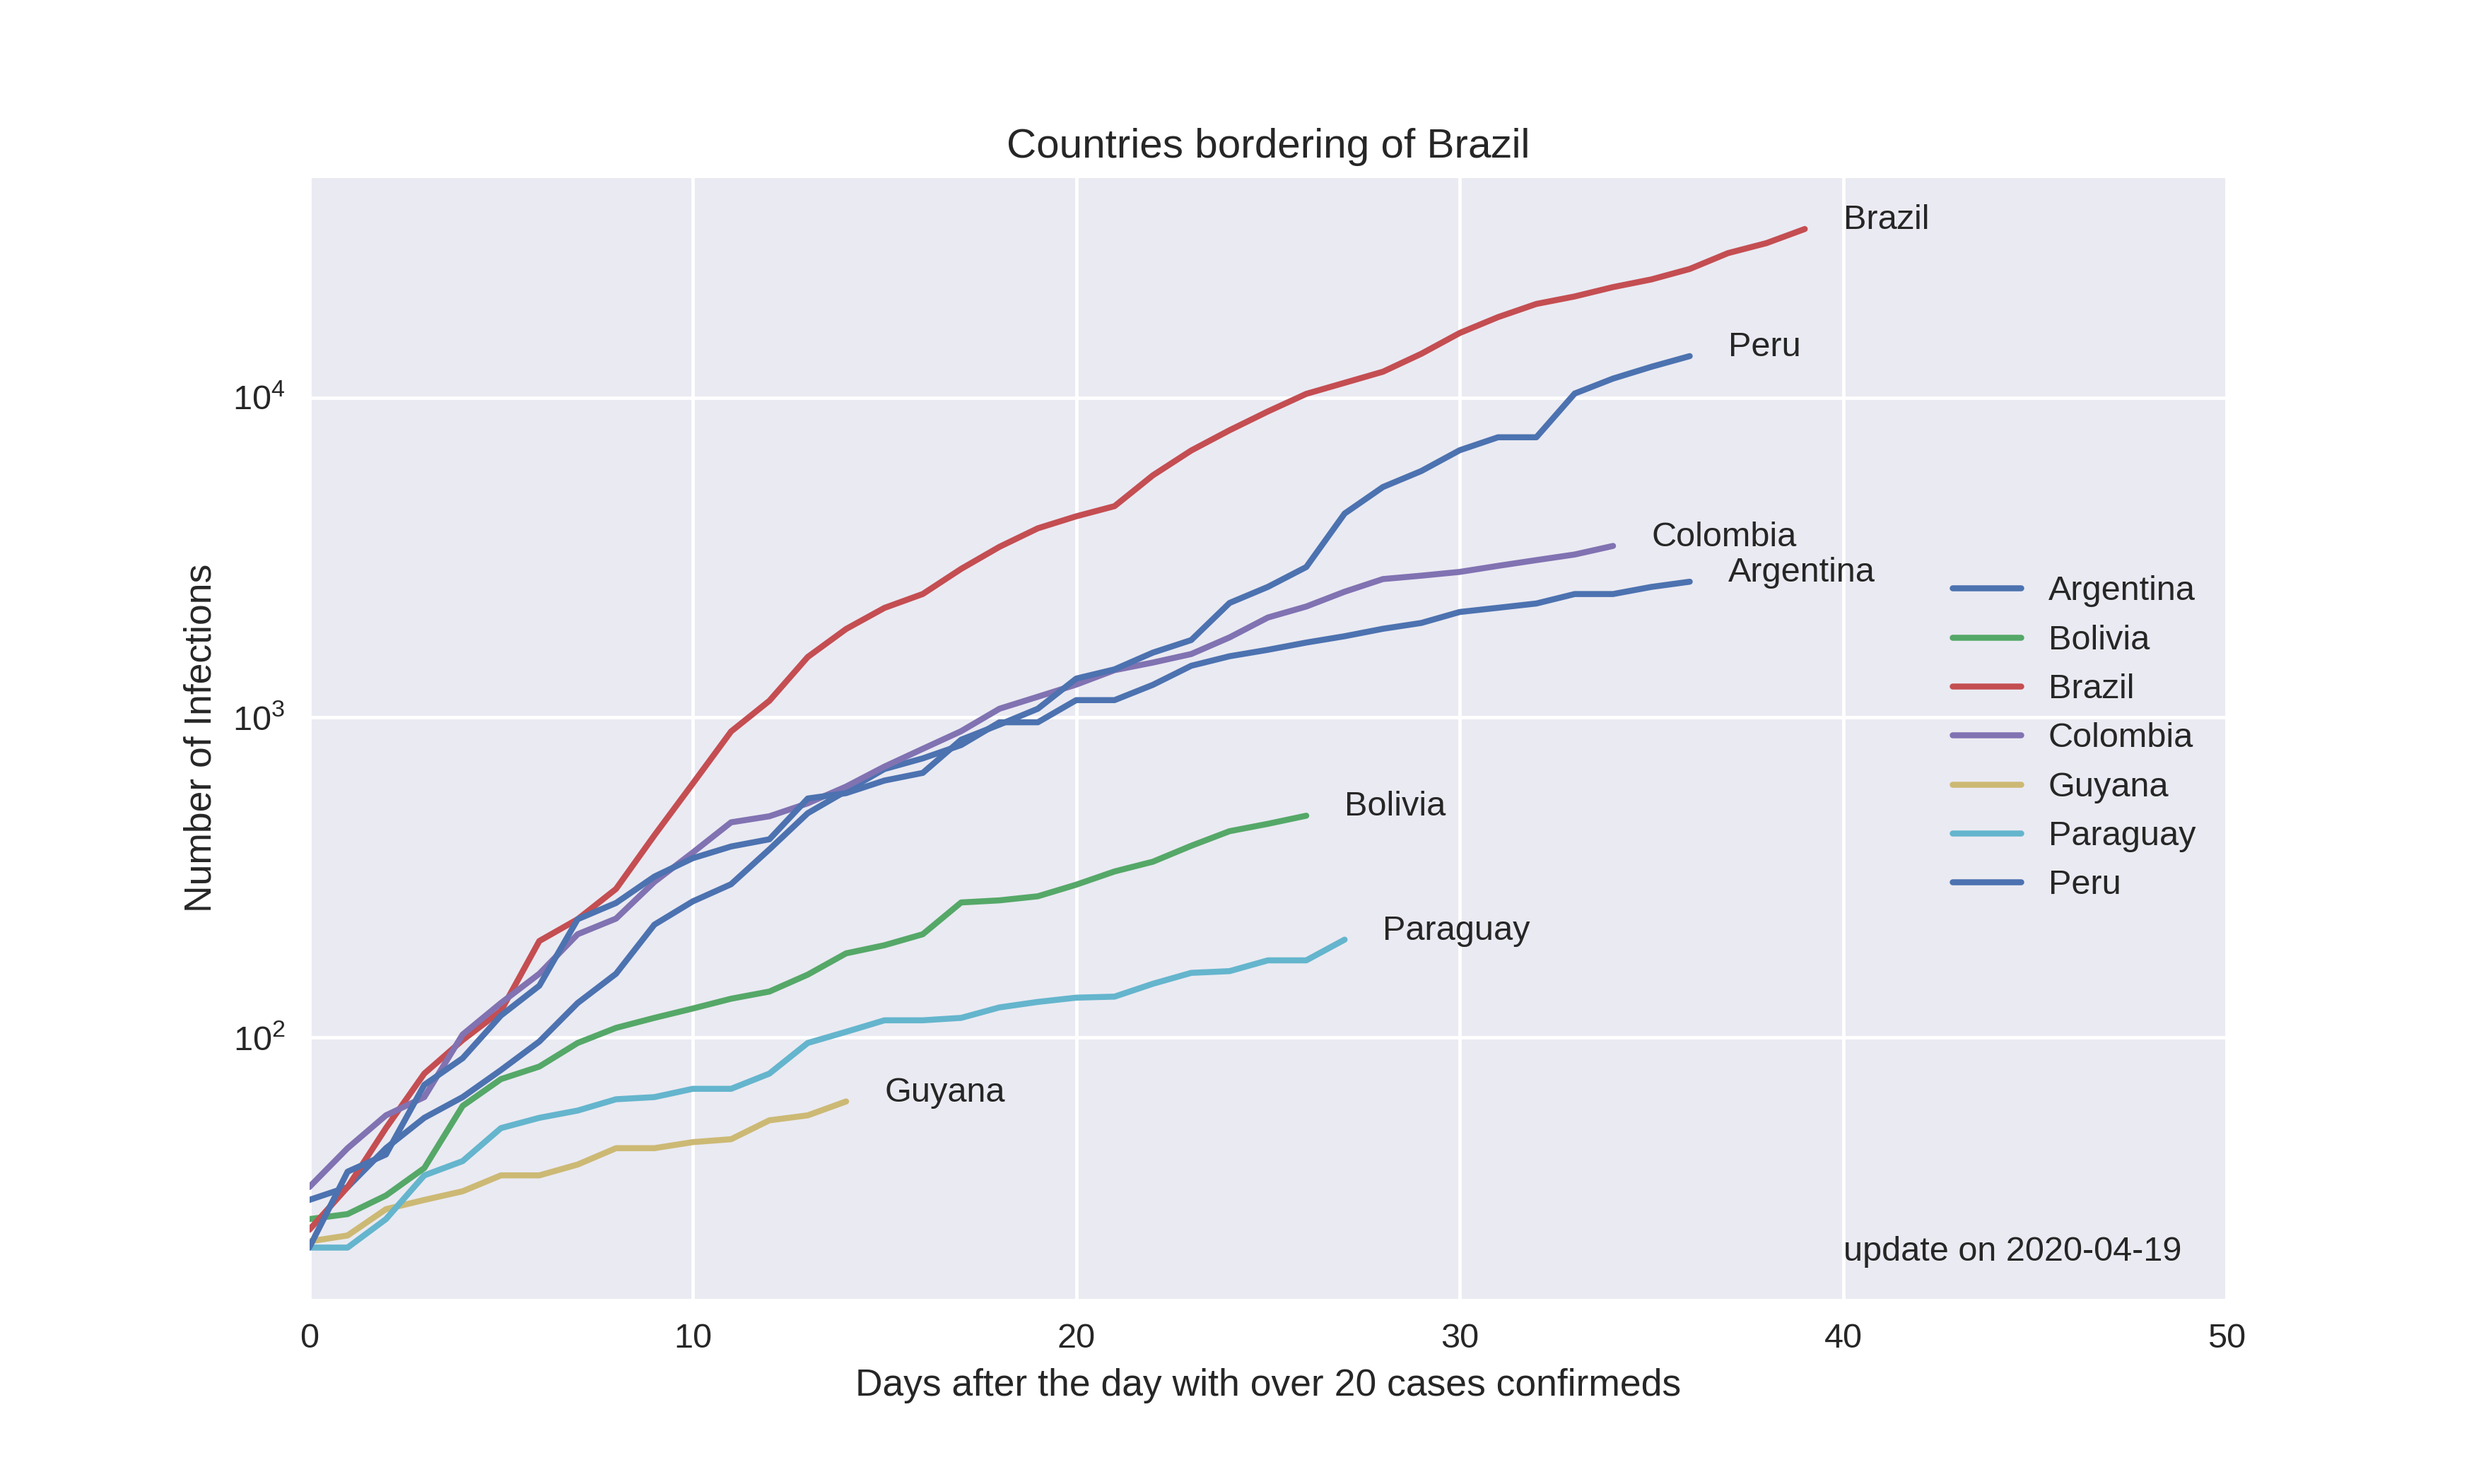
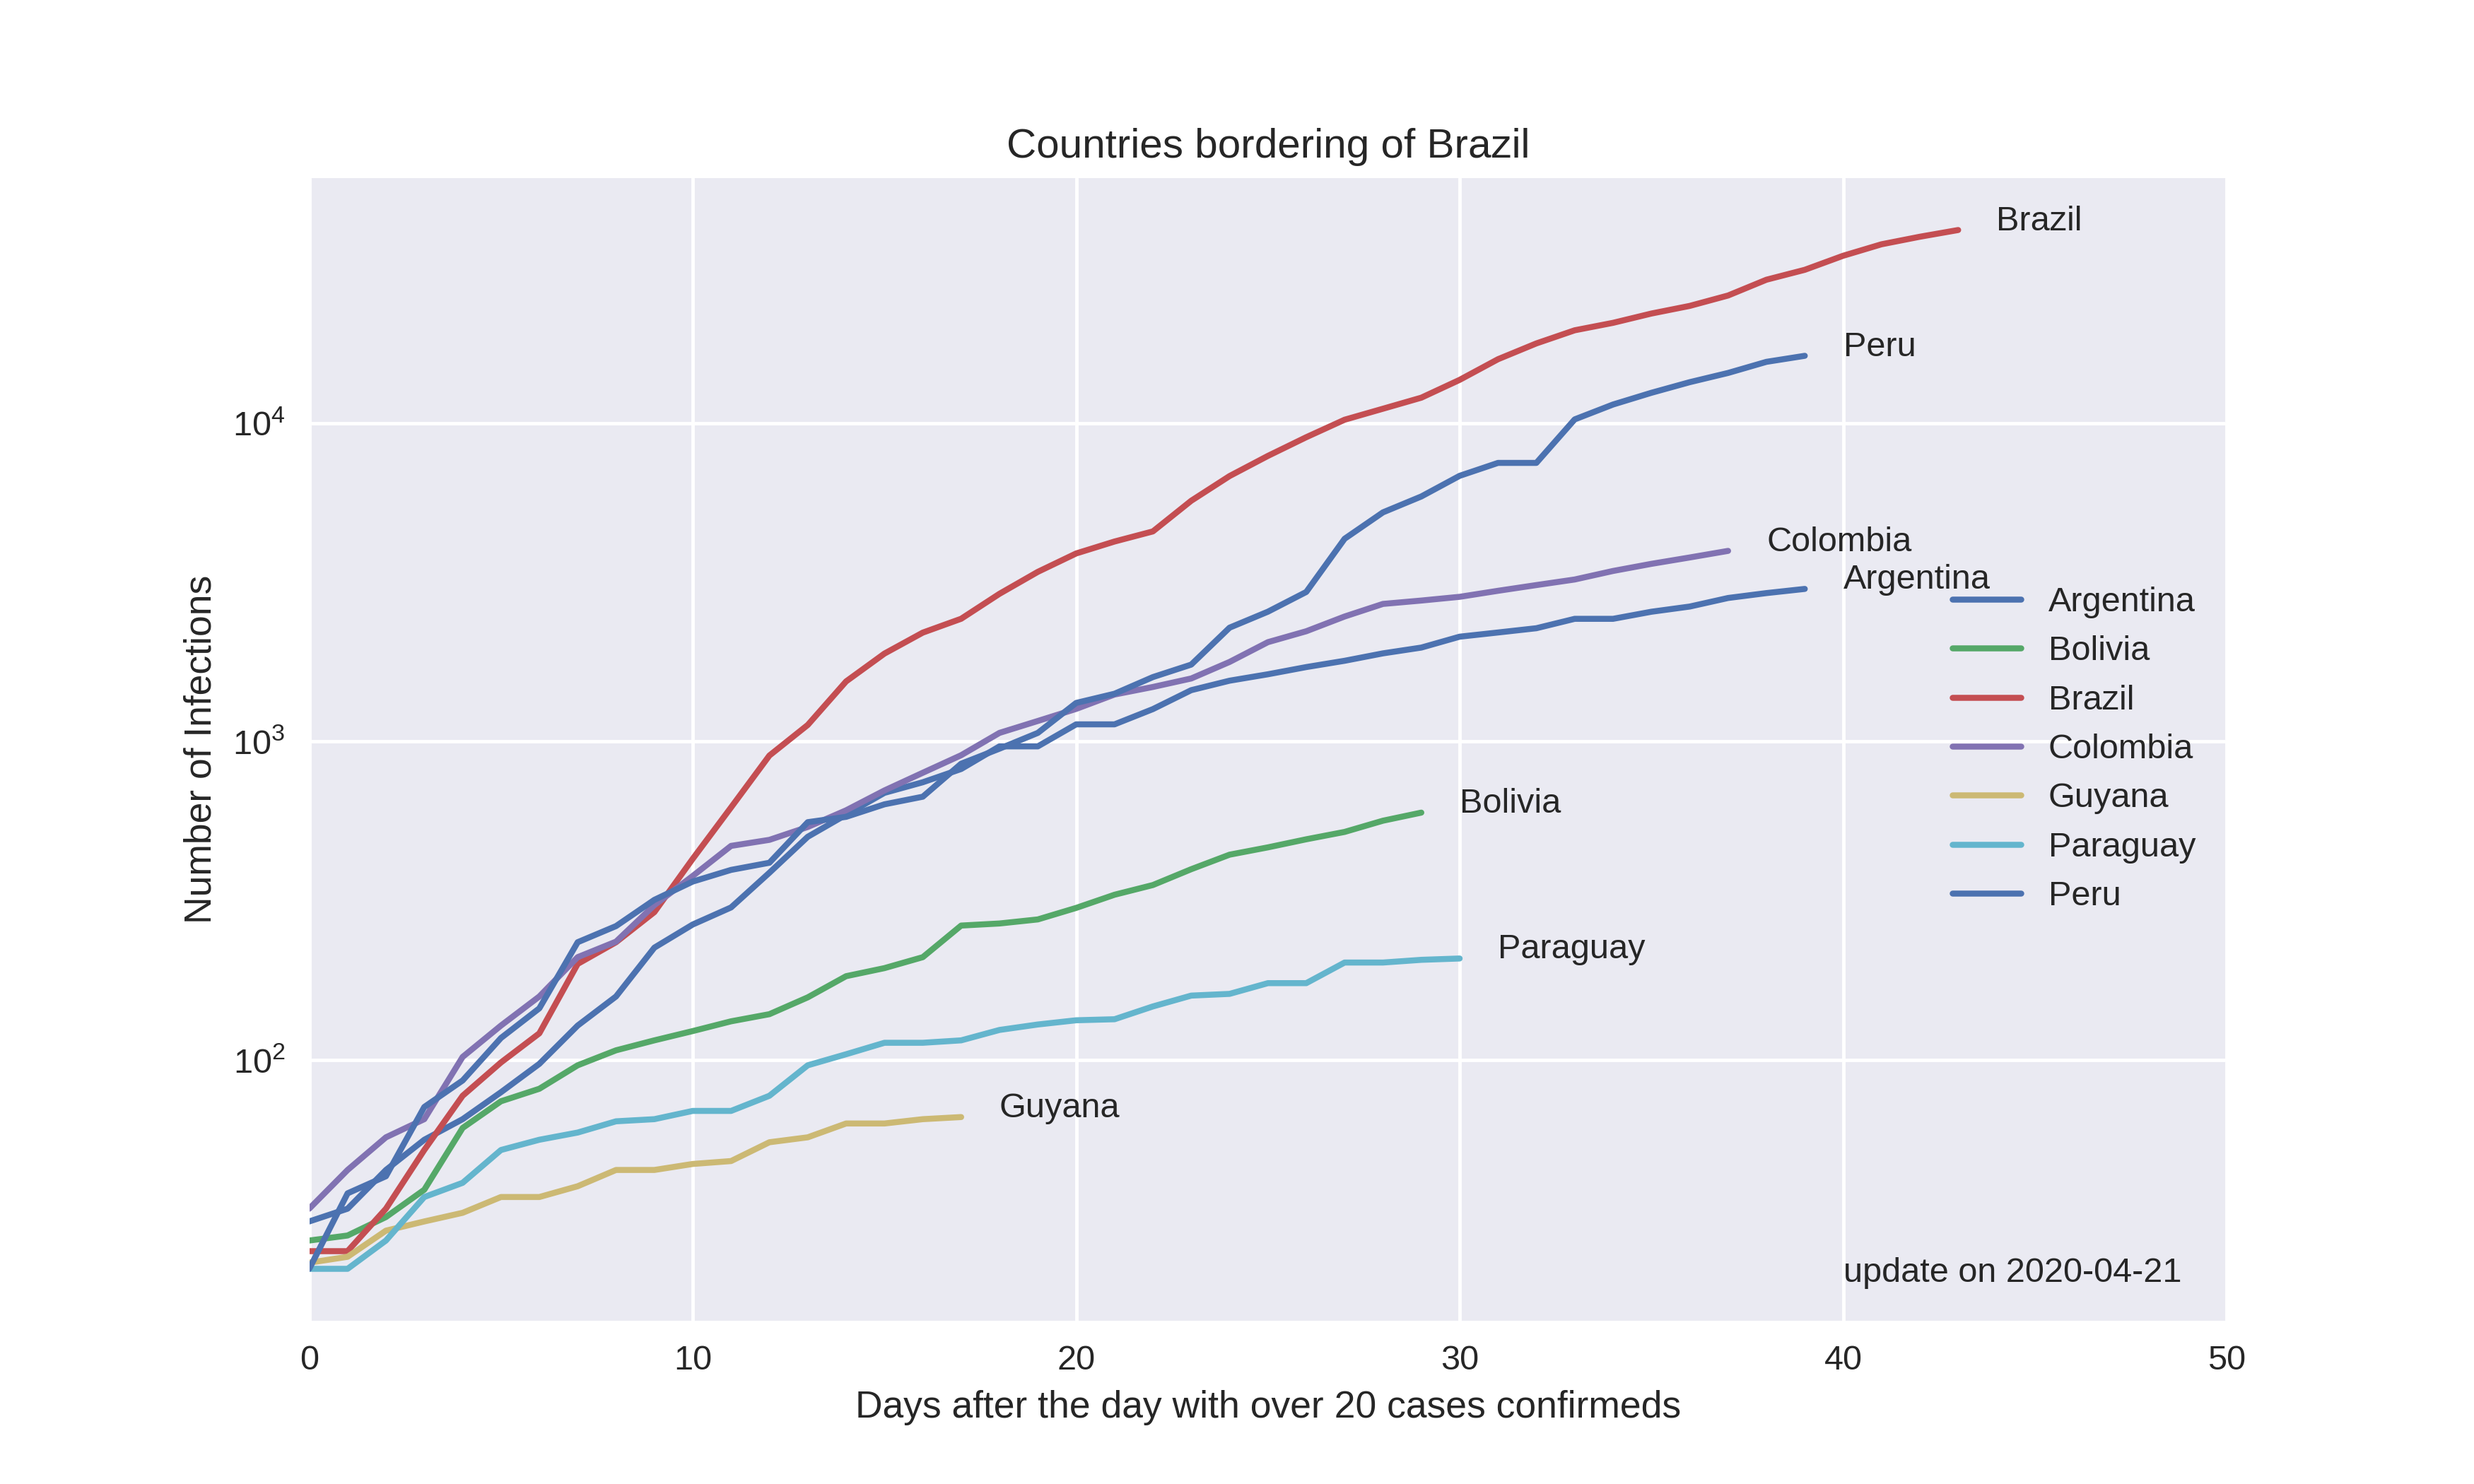
update image automake Brazil world

diff --git a/Corona-Brazil.py b/Corona-Brazil.py
@@ -33,6 +33,8 @@ Recupered = 4390
 txfa = Deaths/Cases
 txre = Recupered/Cases
 
+total_data = data.copy()
+
 data.index = pd.to_datetime(data.date)
 # sel data form Brazil
 ctry = data[data["location"] == 'Brazil']
@@ -98,3 +100,104 @@ ax2.legend(loc="lower right")
 ax2.grid(1)
 plt.show()
 fig.savefig("log_data_forecast_brazil.png",dpi=350)
+
+#  Countreis of South America
+############################SA##############
+############################SA##############
+
+sa = ['Argentina', 'Bolivia', 'Brazil', 'Chile', 'Colombia', 'Ecuador', 'Falkland Islands', 'French Guiana', 
+      'Guyana', 'Paraguay', 'Peru', 'Suriname', 'Uruguay', 'Venezuela']
+sa = sorted(sa)
+san = total_data[(total_data.location.isin(sa)) & (total_data["total_cases"] > 20. )]
+psum = san.groupby('date').total_deaths.sum()
+
+
+############################SA##############
+############################SA##############
+
+fig = plt.figure(figsize=[10,6])
+ax = plt.subplot()
+
+for ii in sa:
+    p = total_data[(total_data["location"] == ii) & (total_data["total_cases"] > 20. )]
+    if len(p) > 0: 
+        ax.plot(p.total_deaths.values,label=ii)
+        ax.text(len(p),p.total_deaths.values.max(),ii)
+ax.plot(psum.values,'g*-',label = "Sum South\n America")
+ax.text(len(psum),psum.values.max(),"Sum SouthAmerica",color="g")
+ax.text(40,1,'update on '+str(datetime.now().date()))
+ax.set_yscale('log')
+ax.set_title("Countries of South America")
+ax.set_ylabel("Number of Infections")
+ax.set_xlim(0,50)
+ax.set_xlabel('Days after the day with over 20 cases confirmeds')
+plt.legend(loc=5)
+# plt.show()
+fig.savefig("southAmerica_brazil.png",dpi=350)
+plt.close()
+
+############################ Countries bordering of Brazil ############################
+############################ Countries bordering of Brazil ############################
+############################ Countries bordering of Brazil ############################
+
+borderBR = ['Argentina', 'Bolivia', 'Brazil', 'Colombia', 'French Guiana', 'Guyana', 'Paraguay', 'Peru', 'Suriname']
+borderBR= sorted(borderBR)
+
+# psum.values
+############################
+fig = plt.figure(figsize=[10,6])
+ax = plt.subplot()
+
+
+for ii in borderBR:
+    p = total_data[(total_data["location"] == ii) & (total_data["total_cases"] > 20. )]
+    if len(p) > 0: 
+        ax.plot(p.total_cases.values,label=ii)
+        ax.text(len(p),p.total_cases.max(),ii)
+
+ax.text(40,20,'update on '+str(today))
+ax.set_yscale('log')
+ax.set_title("Countries bordering of Brazil")
+ax.set_ylabel("Number of Infections")
+ax.set_xlim(0,50)
+ax.set_xlabel('Days after the day with over 20 cases confirmeds')
+plt.legend(loc=5)
+# plt.show()
+fig.savefig("border_brazil.png",dpi=350)
+plt.close()
+
+################# world############################ world###########
+################# world############################ world###########
+
+top = total_data.sort_values('total_cases',ascending=False).where(total_data.location != 'World').dropna().location.unique()[:4]
+top = list(top)
+top.append("Brazil")
+
+################# world############################ world###########
+################# world############################ world###########
+
+fig = plt.figure(figsize=[10,6])
+ax = plt.subplot()
+
+
+for ii in top:
+    if ii == "Brazil":
+        p = total_data[(total_data["location"] == ii) & (total_data["total_cases"] > 100. )]
+#         p['total_cases'] = p['total_cases'].add(10.)
+    else:
+        p = total_data[(total_data["location"] == ii) & (total_data["total_cases"] > 100. )]
+    
+    if len(p) > 0:
+        ax.plot(p.total_cases.values,label=ii)
+        ax.text(len(p),p.total_cases.max(),ii)
+
+ax.text(40,100,'update on '+str(today))
+ax.set_yscale('log')
+ax.set_title("Countries of World")
+ax.set_ylabel("Number of Infections")
+ax.set_xlim(0,60)
+ax.set_xlabel('Days after the day with over 100 cases confirmeds')
+plt.legend(loc=5)
+# plt.show()
+fig.savefig("top_world.png",dpi=350)
+plt.close()
